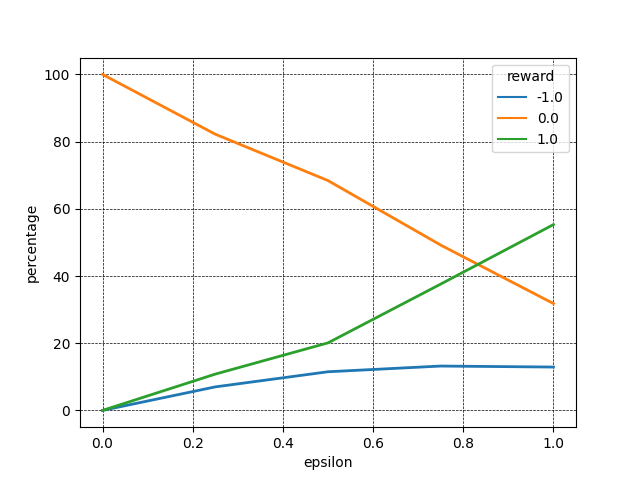
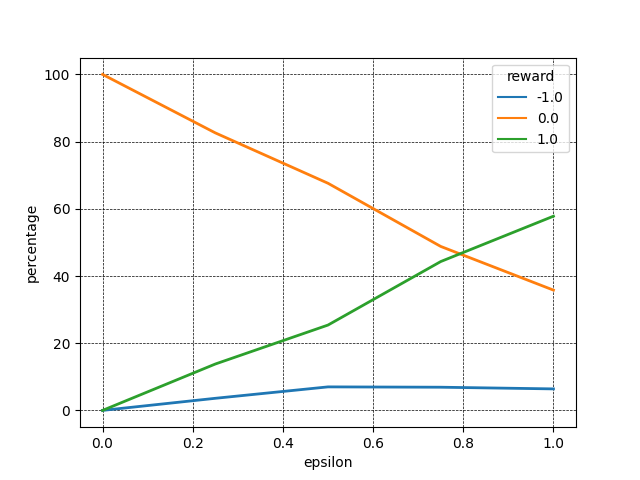
better adapting3

diff --git a/agent.py b/agent.py
@@ -12,7 +12,7 @@ class Agent:
     def get_do_random(self):
         return self.do_random
 
-    def action_choice(self, probs):
+    def action_choice(self, probs, available_actions_bool = None):
         """ returns the action that makes self.game_balance in the future closest to 0 """
         # choose action that makes future game_balance closest to zero
         return tf.argmax(probs,axis=-1)
@@ -216,7 +216,7 @@ class DQNAgent(Agent):
         # calculate best action
         return probs[self.action_choice(probs)]
     
-    @tf.function(reduce_retracing=True)
+    # @tf.function(reduce_retracing=True)
     def calc_td_error(self, state, action, reward, new_state, done, available_action_bool, unavailable_actions_in):
         """ Calculates the TD error for prioritized experience replay 
         
@@ -332,8 +332,8 @@ class AdaptingAgent(Agent):
         self.opponent_level = tf.constant(-1.)
 
     #@tf.function(reduce_retracing=True)
-    def action_choice(self, probs):
-        """ returns the action that makes self.game_balance in the future closest to 0 """
+    def action_choice(self, probs, available_actions_bool = None):
+        """ returns the action that makes the future reward closest to 0 """
         # choose action that makes future game_balance closest to zero
         return tf.argmin(tf.math.abs(probs),axis=-1)
     
@@ -577,7 +577,7 @@ class AdaptingAgent2(AdaptingAgent): # same as AdaptingAgent at the moment
         self.calculation_value = calculation_value
 
     #@tf.function(reduce_retracing=True)
-    def action_choice(self, probs):
+    def action_choice(self, probs, available_actions_bool = None):
         """ returns the action that makes self.game_balance in the future closest to 0 """
         # choose action that makes future game_balance closest to zero
         # scale positive values a little smaller so the propertion of loosing and winning is more balanced
@@ -592,19 +592,53 @@ class AdaptingAgent3(AdaptingAgent): # same as AdaptingAgent at the moment
         self.calculation_value = calculation_value
 
     #@tf.function(reduce_retracing=True)
-    def action_choice(self, probs):
+    def action_choice(self, probs, available_actions_bool = None):
         """ returns the action that makes self.game_balance in the future closest to 0 """
         # choose action that makes future game_balance closest to zero
         # scale the positive action values between 0 and 1, then choose a certain percentage point
 
-        scaled_around_value = tf.subtract(tf.divide(probs,tf.reduce_max(probs)), self.calculation_value)
+        scaled_around_value = tf.subtract(tf.divide(probs,tf.reduce_max(tf.math.abs(probs))), self.calculation_value)
+
+        if available_actions_bool != None:
+            scaled_around_value = tf.where(available_actions_bool, scaled_around_value, tf.constant(10.))
         adapting_action =  tf.argmin(tf.math.abs(scaled_around_value),axis=-1)
 
         # return best action when we are loosing
-        boolean_value = tf.where(tf.reduce_max(probs,axis=-1)<tf.constant(0.0),True,False)
-        best_action = tf.argmax(probs,axis=-1)
+        #boolean_value = tf.where(tf.reduce_max(probs,axis=-1)<tf.constant(0.0),True,False)
+        #best_action = tf.argmax(probs,axis=-1)
+        # tf.where(boolean_value, best_action, adapting_action)
 
-        return tf.where(boolean_value, best_action, adapting_action)
+        return adapting_action
+    
+    #@tf.function(reduce_retracing=True)
+    def select_action(self, observations, available_actions, available_actions_bool = None, unavailable : bool = False, opponent_level = None, save_opponent_level = True, game_balance = None):
+        """ 
+        selects the currently best action using the model 
+        
+        Parameters:
+            epsilon (float):
+            observations (array): (batch, 7, 7) using FourConnect (other env possible)
+            available_actions (list): containing all the available actions for each batch observation
+            available_actions_bool (list): containing for every index whether the action with this value is in available actions
+            unavailable (bool): whether the agent is allowed to choose unavailable actions
+        
+        returns: 
+            the chosen best action for each batch element (tf.Tensor)
+        """
+        
+        probs = self.model(observations, training = False)
+
+        # add the following print if playing against the agent to get information about it's decision
+        #print("Model results: \n", probs.numpy().reshape((3,3)))
+        
+        # remove all unavailable actions
+        # if not unavailable and available_actions_bool != None:
+            # probs = tf.where(available_actions_bool, probs, np.nan)
+
+        # calculate best action
+        if not unavailable:
+            return self.action_choice(probs, available_actions_bool)
+        return self.action_choice(probs)
 
 class MinMax_Agent (Agent):
     """ 
